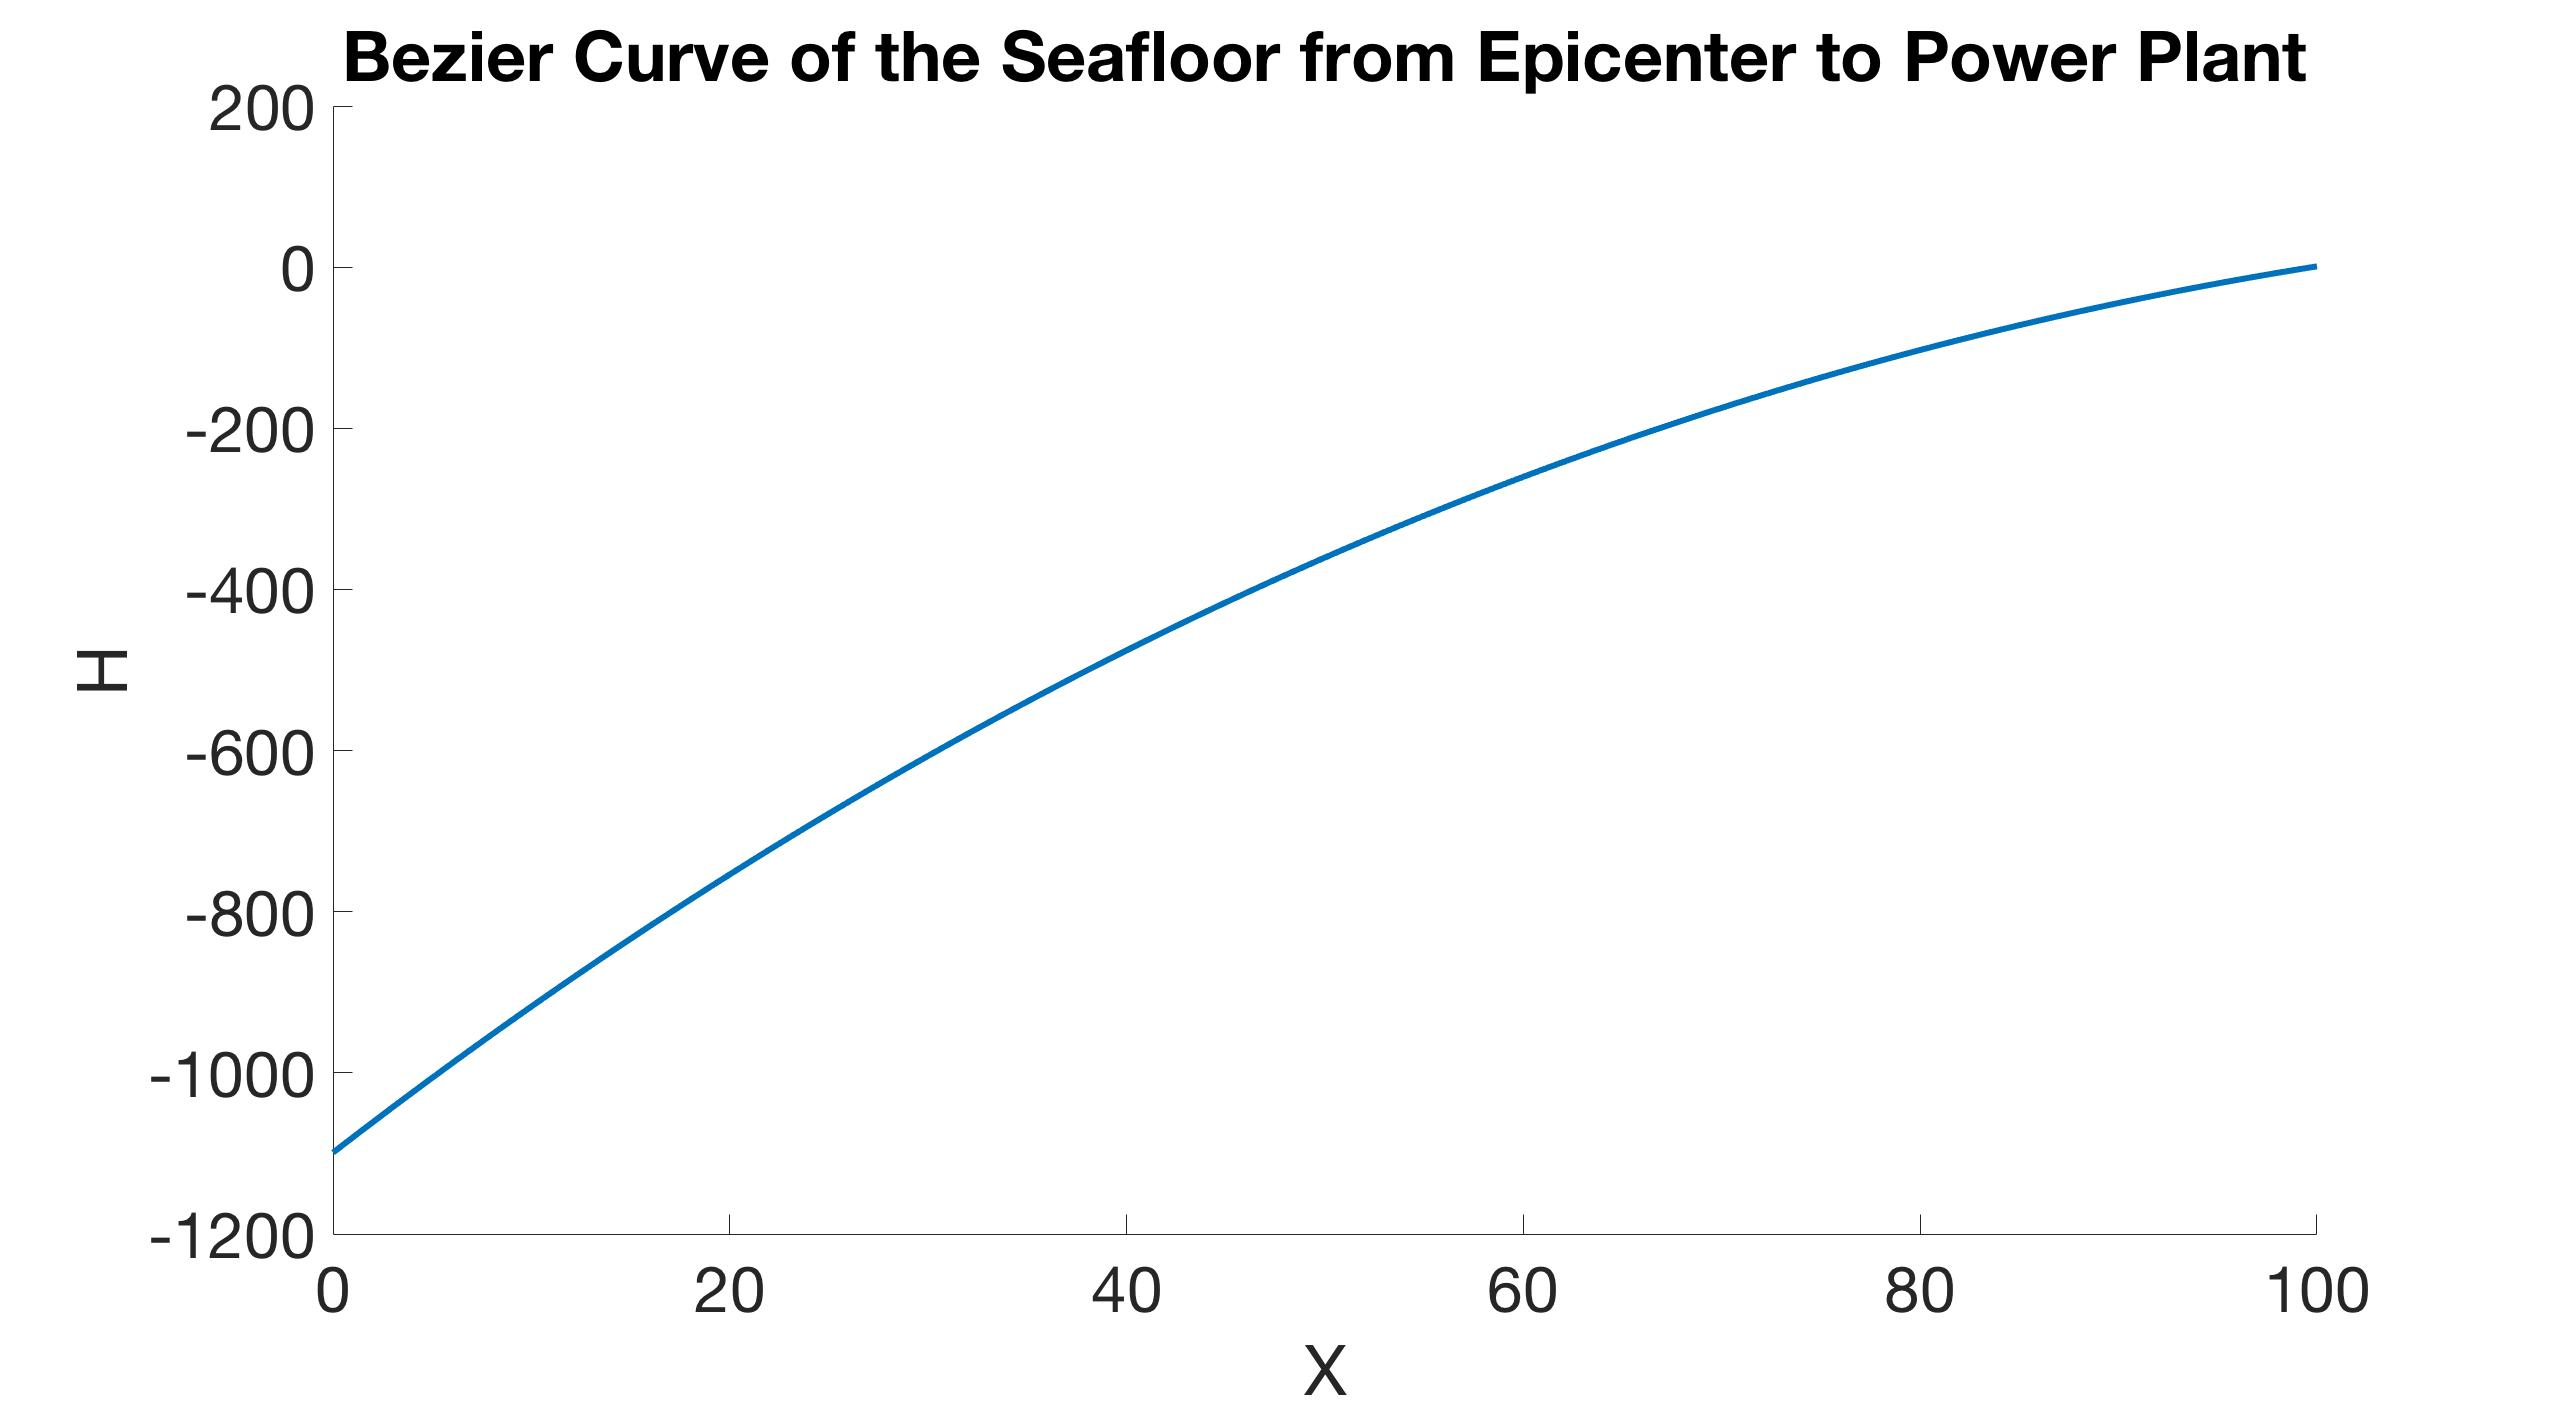
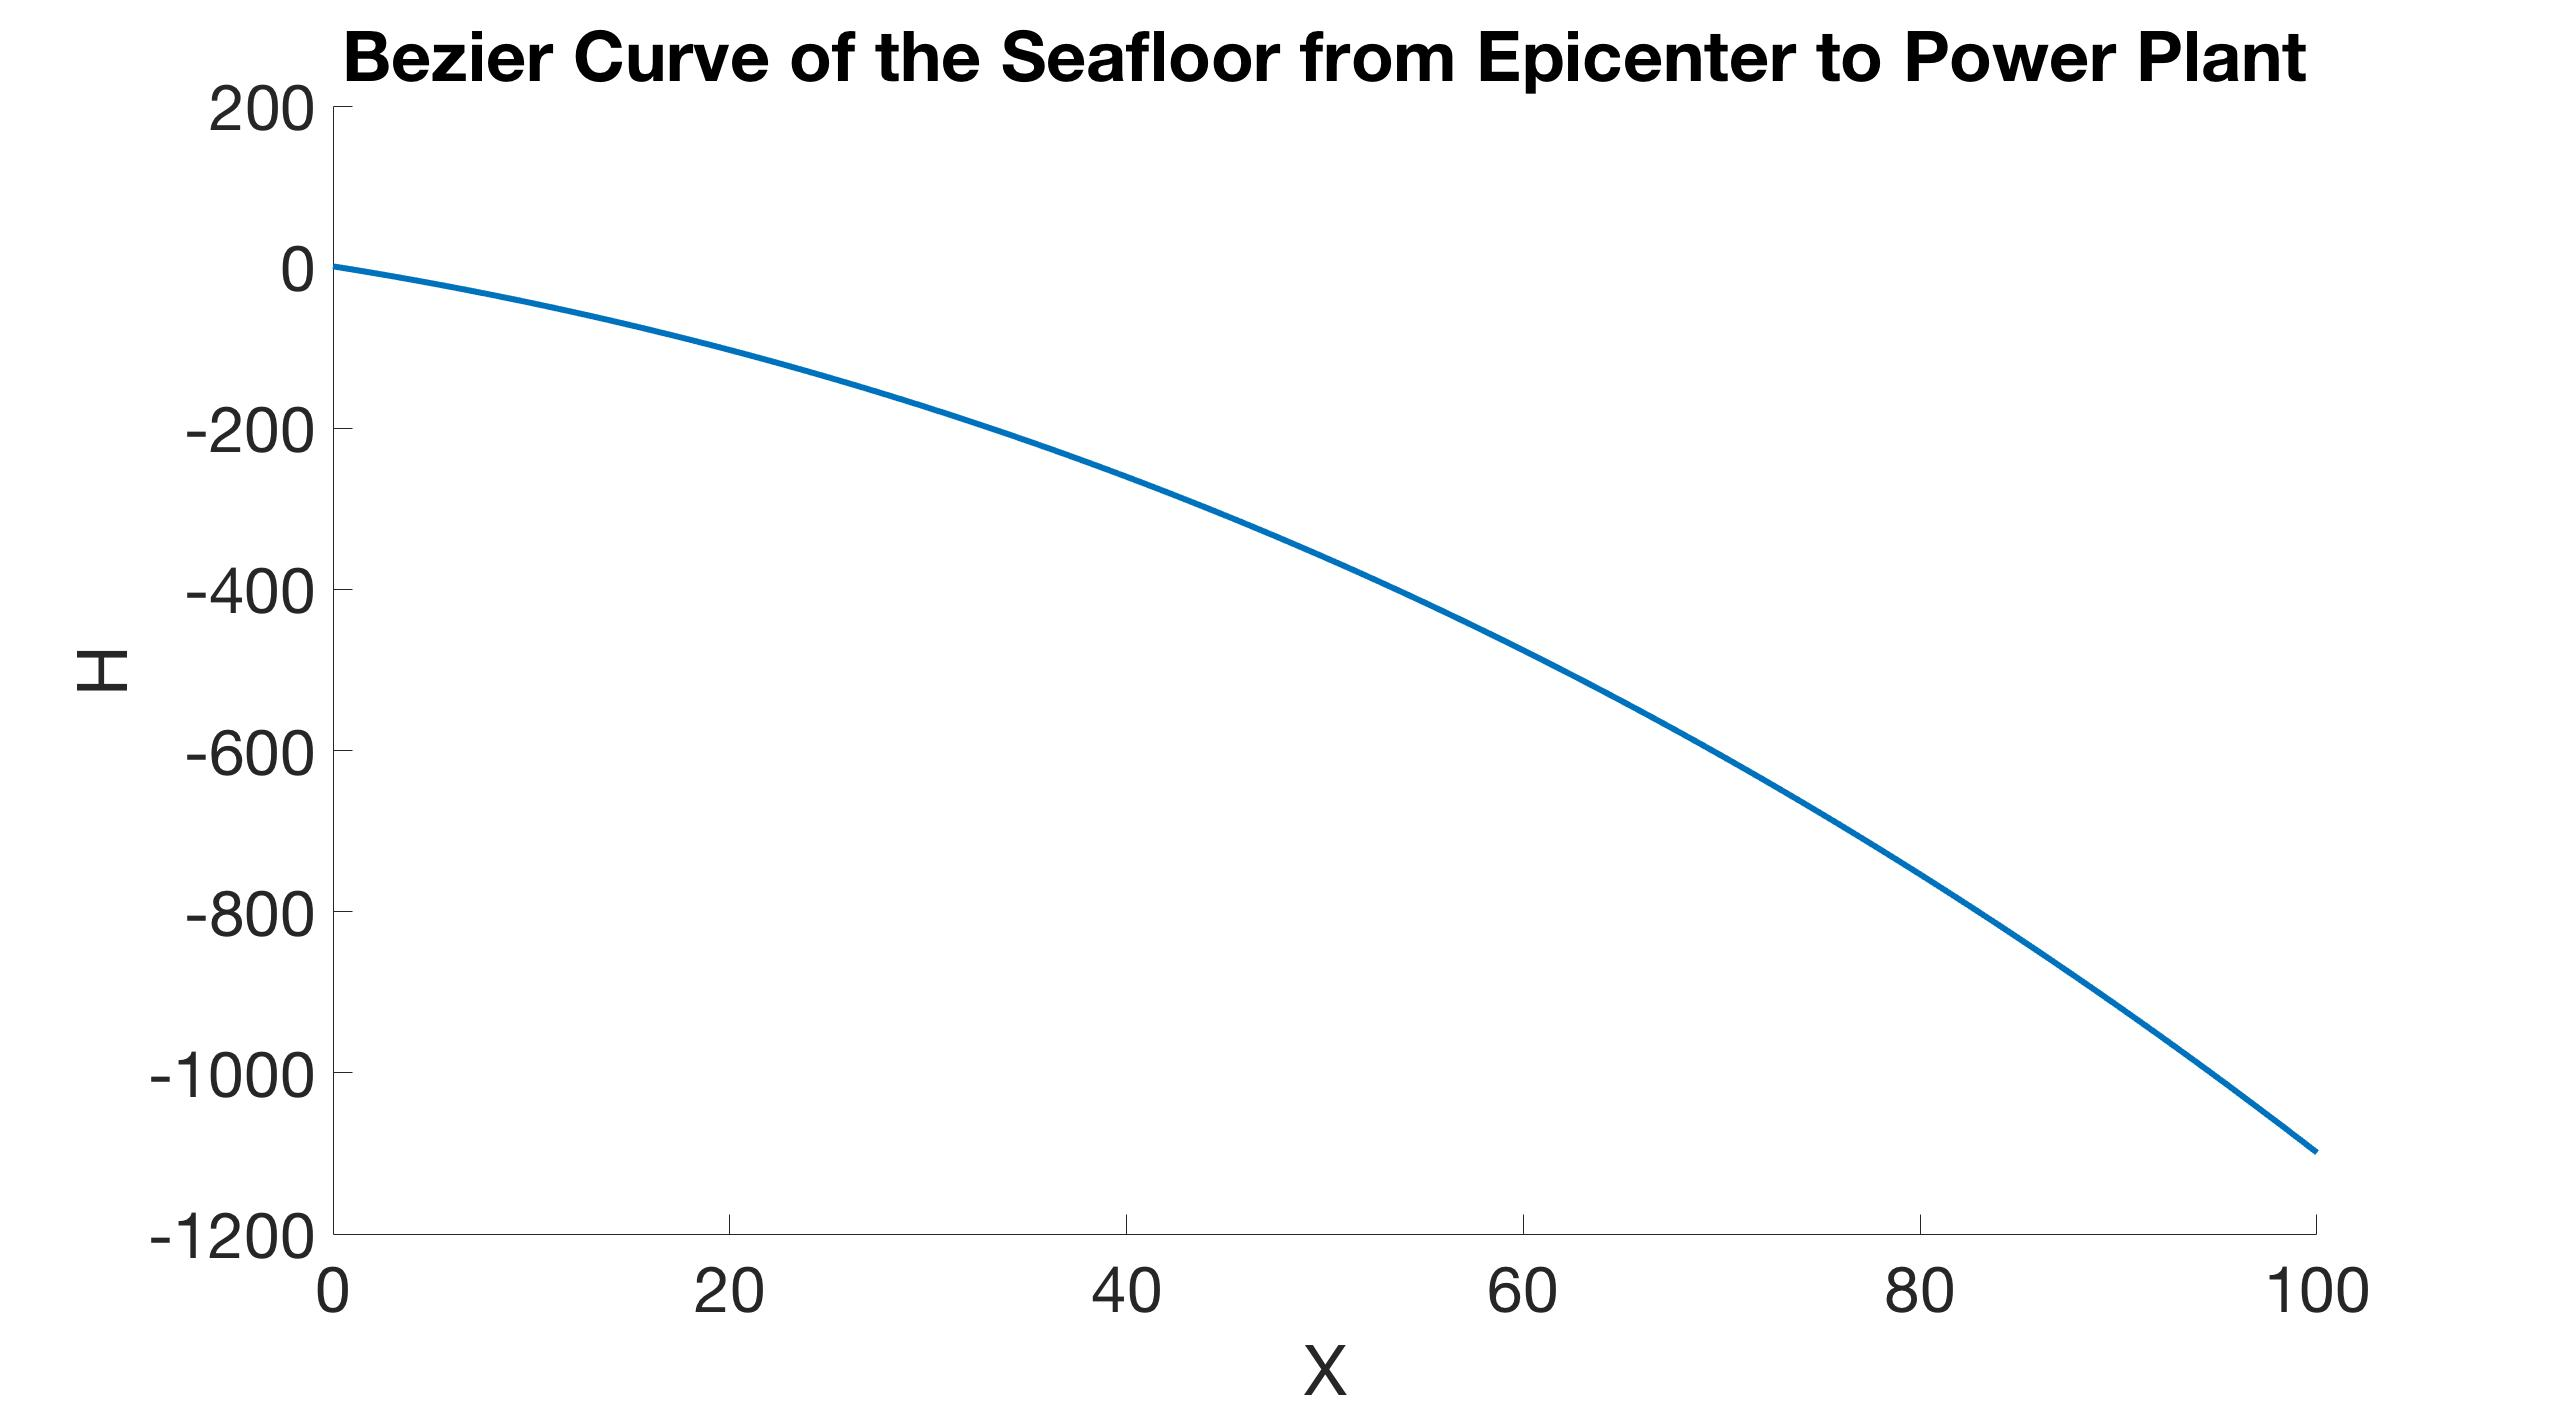
Added to bezier section for writeup

diff --git a/report/sec/bezier.tex b/report/sec/bezier.tex
@@ -1,15 +1,16 @@
 \documentclass[../main.tex]{subfiles}
 
 \begin{document}
-A B\'ezier curve is a parametric curve used to model smooth curves.  In order to develop the sea floor map (without having to define every single point), we decided to use a cubic B\'ezier Curve.  A cubic B\'ezier curve takes in 4 control points and interpolates along the 4 points to develop a smooth, continuous curve.  The control points are two points at the ends, one at $\frac{1}{3}$ of the way, and another at $\frac{2}{3}$ of the way.  Now, provided the control points, we have the following explicit form:
-\begin{equation}
+A B\'ezier curve is a parametric curve used to model smooth curves.  In order to develop the sea floor map (without having to define every single point), we decided to use a cubic B\'ezier Curve.  A cubic B\'ezier curve takes in 4 control points and interpolates along the 4 points to develop a smooth, continuous curve.  The control points are defined as two points at the ends, one at $\frac{1}{3}$ of the way, and another at $\frac{2}{3}$ of the way.  Now, provided the control points, we have the following explicit form:
+\begin{equation} \label{eq:bezier}
 B(t) = (1-t)^3P_0 + 3t(1-t)^2P_1 + 3t^2(1-t)P_2+t^3P_3, \ \ \ \ 0\leq t \leq 1
 \end{equation}
-We also can use this explicit form to find the derivative at any point $t$:
+Where $P$ is the control point. We can use this explicit form to find the derivative at any point $t$:
 \begin{equation}
-B'(t) = 3(1-t)^2(P_1-P_0) + 6t(1-t)(P_2-P-1) + 3t^2(P_3-P_2), \ \ \ \ 0\leq t \leq 1
+B'(t) = 3(1-t)^2(P_1-P_0) + 6t(1-t)(P_2-P_1) + 3t^2(P_3-P_2), \ \ \ \ 0\leq t \leq 1
 \end{equation}
-We can then extend the idea of a B\'ezier curve to develop a B\'ezier surface, which is a 2D linearly interpolated surface that is made using 16 control points. TODO
+We can extend the idea of a B\'ezier curve to develop a B\'ezier surface, which is a 2D linearly interpolated surface that is made using 16 control points. The 16 control points create a $4 \times 4$ grid of points.  In order to find a single point on the surface, say $(u, v)$, we first create 4 new points by evaluating \eqref{eq:bezier} at $u$ using 4 sets of 4 control points.  That is, we calculate $B(u)$ using control points 1 through 4, then 5 through 8, 9 through 12, and finally 13
+through 16.  We then use the 4 values of $B(u)$ as control points, and evaluate $B(v)$ to finally find the point on surface $(u, v)$.  This method is repeated on all points on the grid, in order to create the B\'ezier surface. 
 
 \subsection{Implementation}
 For our application with the Fukushima Daiichi Nuclear Power Plant, we derived the 4 control points for the sea floor using the National Oceanic and Atmospheric Administration's (NOAA) Bathymetric Data Viewer.  The viewer allows users to gain elevation data at any coordinate.  Thus, we drew a line between the epicenter of the earthquake to the nuclear power plant, and derived the 4 control points from there.
@@ -22,14 +23,17 @@ For our application with the Fukushima Daiichi Nuclear Power Plant, we derived t
 \centering
 \includegraphics[scale=0.15]{1DLine.jpg}
 \end{figure}
+\noindent Similarly, we can also draw a rectangle with the diagonal being the line between the epicenter of the earthquake to the nuclear power plant.  This rectangle is then used to define the 16 control points in order to derive the 2D interpolated sea floor surface.
 \begin{figure}[H]
 \centering
 \includegraphics[scale=0.5]{2D.png}
 \end{figure}
-\noindent Using the control points, we can then apply the cubic B\'ezier curve to derive the following sea floor curve:
+\noindent Using the control points, we linearly interpolate all the points within the grid, and derive the following sea floor.
 \begin{figure}[H]
 \centering
 \includegraphics[scale=0.15]{2DSurf.jpg}
 \end{figure}
+
+\noindent The key benefit of using the B\'ezier cubic interpolation is that we can create approximations of the sea floor very easily with only a few defined points.  This gives us the liberty to apply our numerical method to any geographical location, and even test it with fictional surfaces.
 
 \end{document}

diff --git a/code/interp/main.m b/code/interp/main.m
@@ -15,6 +15,7 @@ hold off
 %% Load 1D Seafloor
 X = linspace(0, 100, 101);
 Y = dlmread('bezCurve.dat');
+Y = flip(Y);
 figure
 hold on
 set(gca, 'FontSize', 32)
